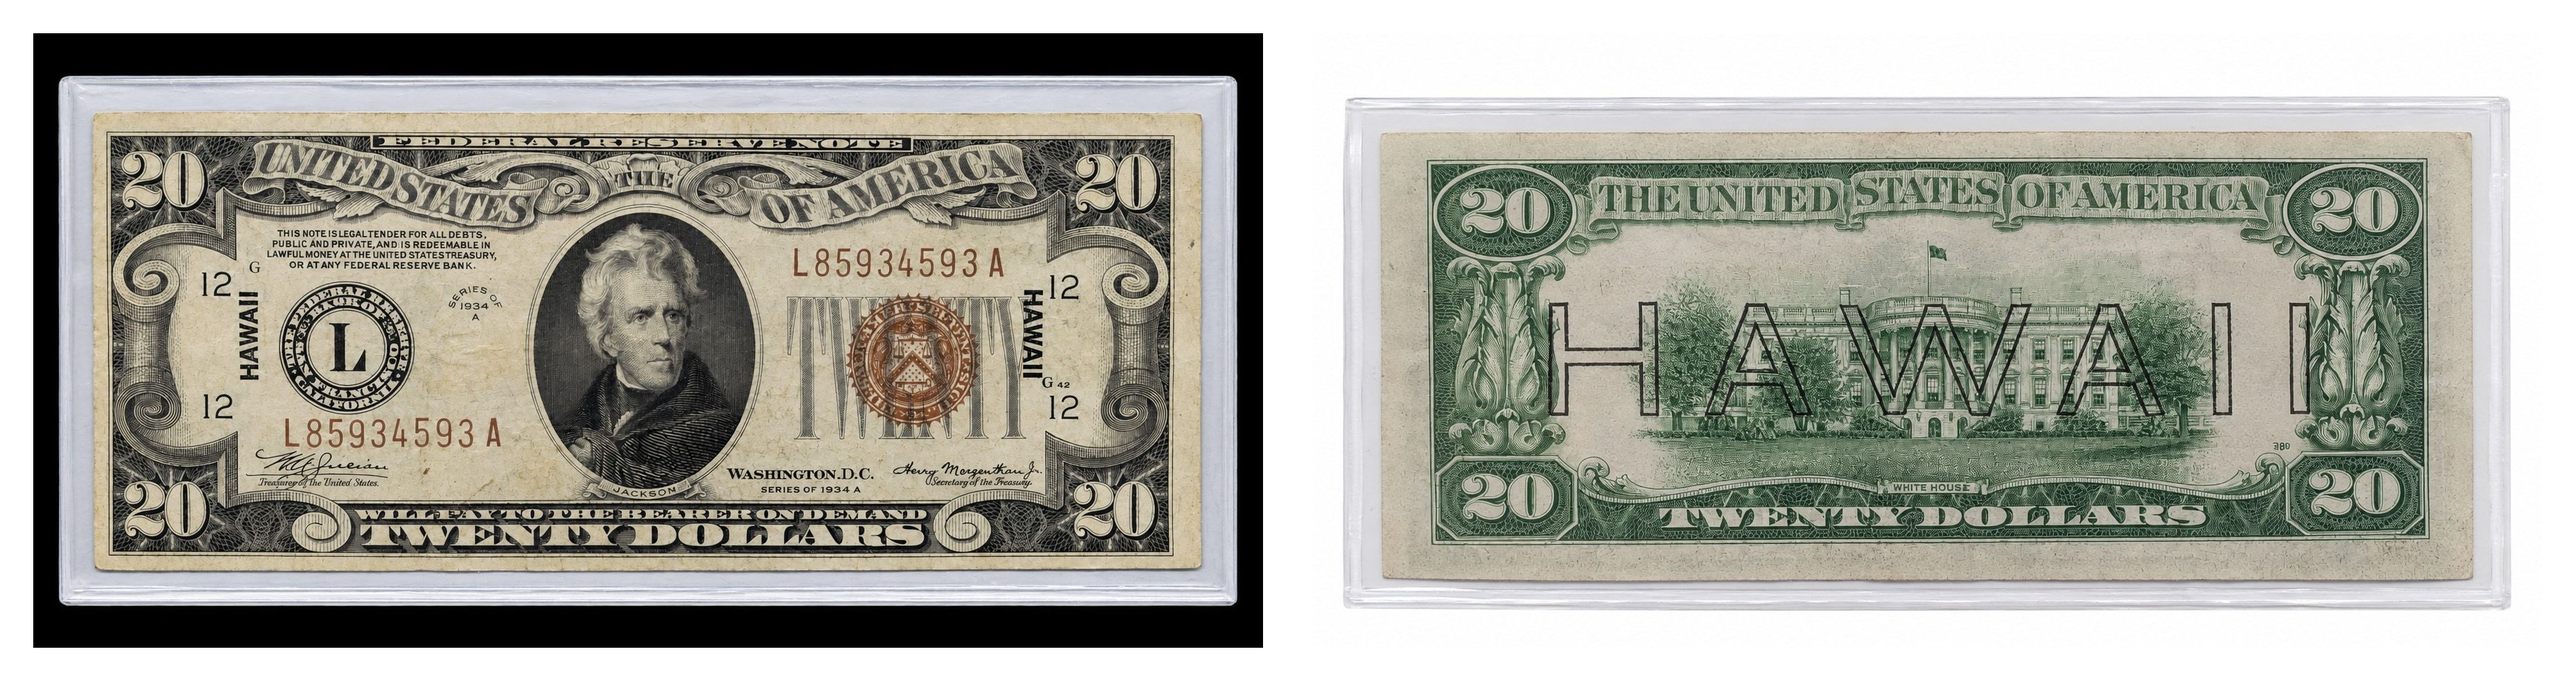
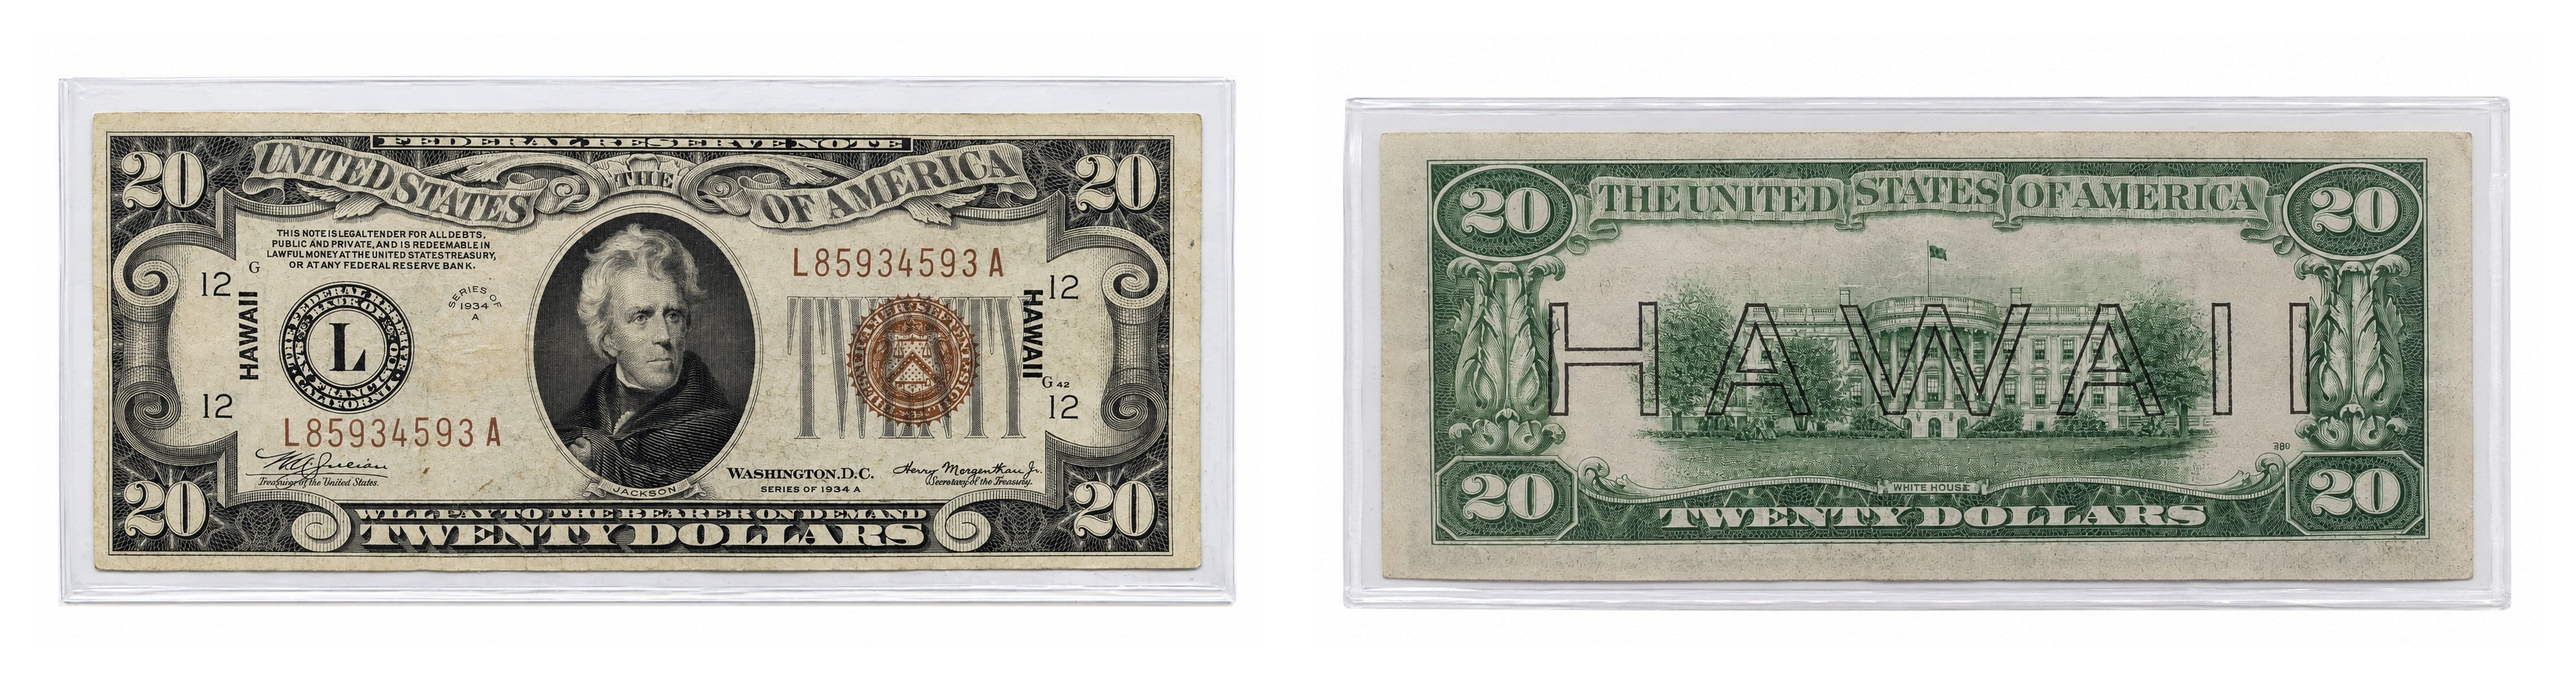
Replace the Hawaii $20 L85934593A face scan.
Keep the same path and bump the catalog scan cache key so the new front and composite replace the cached frames.

Changed region(s): [[0.0, 0.0305, 0.4995, 0.9766]]

diff --git a/src/lib/images.ts b/src/lib/images.ts
@@ -10,7 +10,7 @@ export const CATALOG_HERO_VERSION = '20260829';
  * Cloudflare Image Resizing keeps the previous file for hours; the query
  * forces the homepage card and the note srcset onto the new frame.
  */
-export const CATALOG_SCAN_VERSION = '20261108';
+export const CATALOG_SCAN_VERSION = '20261109';
 
 export function catalogAssetSrc(src: string, version: string = CATALOG_HERO_VERSION): string {
   if (!version || !src.startsWith('/')) return src;
